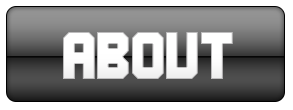
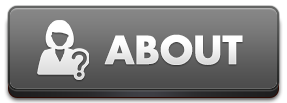
New buttons :b:

diff --git a/hackanix/index.html b/hackanix/index.html
@@ -53,10 +53,11 @@
 						
 						<nav>
 							<ul>
-                                <li><input type="image" src="images/1.png" id="icon1" style="width:90%; height:90%;"></li>
-                                <li><input type="image" src="images/2.png" id="icon2" style="width:90%; height:90%;"></li>
-                                <li><input type="image" src="images/3.png" id="icon3" style="width:90%; height:90%;"></li>
-                                <li><input type="image" src="images/4.png" id="icon4" style="width:90%; height:90%;"></li>
+                                <li><a href="#"><img src="images/1.png" id="icon1" style="width:90%; height:90%;"></a></li>
+                                <li><a href="#"><img src="images/2.png" id="icon2" style="width:90%; height:90%;"></a></li>
+                                <li><a href="#"><img src="images/3.png" id="icon3" style="width:90%; height:90%;"></a></li>
+                                <li><a href="#"><img src="images/4.png" id="icon4" style="width:90%; height:90%;"></a></li>
+                                
 							</ul> 
                             
 							<ul>
@@ -77,7 +78,7 @@
             
             <!--close button-->
             <div id="closebtn" class="closebutton">
-                <input type="image" src="images/close.png" id="btnclose" style="width:100%; height:100%;">
+                <a href="#"><img src="images/close.png" id="btnclose" style="width:100%; height:100%;"></a>
             </div>
             
             <!--Google form-->
@@ -101,8 +102,18 @@
             <!--------->
             
 		</div>
-      <script src="js/jquery.min.js"></script>
-      <script>
+        
+        
+        
+        <script src="js/jquery.min.js"></script>
+        <script src="js/skel.min.js"></script>
+		<script src="js/init.js"></script>
+        <script src="js/TweenMax.min.js"></script>
+        <script src="js/utils/Draggable.min.js"></script>
+        <script src="js/plugins/ThrowPropsPlugin.min.js"></script>
+        <script src="js/easing/EasePack.min.js"></script>
+        <script src="js/jquery.countdown.js"></script>
+        <script>
           $(window).load(function() {
             $(".loader").fadeOut("slow");
           })
@@ -168,53 +179,43 @@
           
           //button popup
          
-          $('#icon1').mouseover(function(){TweenMax.to($('#icon1'), 1 , {scaleX:1.35, scaleY:1.35, ease:Strong.easeOut});});
-          $('#icon2').mouseover(function(){TweenMax.to($('#icon2'), 1 , {scaleX:1.35, scaleY:1.35, ease:Strong.easeOut});});
-          $('#icon3').mouseover(function(){TweenMax.to($('#icon3'), 1 , {scaleX:1.35, scaleY:1.35, ease:Strong.easeOut});});
-          $('#icon4').mouseover(function(){TweenMax.to($('#icon4'), 1 , {scaleX:1.35, scaleY:1.35, ease:Strong.easeOut});});
+          $('#icon1').mouseover(function(){TweenMax.to($('#icon1'), 1 , {scaleX:1.15, scaleY:1.15, ease:Elastic.easeOut});});
+          $('#icon2').mouseover(function(){TweenMax.to($('#icon2'), 1 , {scaleX:1.15, scaleY:1.15, ease:Elastic.easeOut});});
+          $('#icon3').mouseover(function(){TweenMax.to($('#icon3'), 1 , {scaleX:1.15, scaleY:1.15, ease:Elastic.easeOut});});
+          $('#icon4').mouseover(function(){TweenMax.to($('#icon4'), 1 , {scaleX:1.1, scaleY:1.15, ease:Elastic.easeOut});});
           $('#btnclose').mouseover(function(){TweenMax.to($('#btnclose'), 1 , {scaleX:1.35, scaleY:1.35, ease:Strong.easeOut});});
           
-          $('#icon1').mouseout(function(){TweenMax.to($('#icon1'), 1 , {scaleX:1, scaleY:1, ease:Strong.easeOut});});
-          $('#icon2').mouseout(function(){TweenMax.to($('#icon2'), 1 , {scaleX:1, scaleY:1, ease:Strong.easeOut});});
-          $('#icon3').mouseout(function(){TweenMax.to($('#icon3'), 1 , {scaleX:1, scaleY:1, ease:Strong.easeOut});});
-          $('#icon4').mouseout(function(){TweenMax.to($('#icon4'), 1 , {scaleX:1, scaleY:1, ease:Strong.easeOut});});
+          $('#icon1').mouseout(function(){TweenMax.to($('#icon1'), 1 , {scaleX:1, scaleY:1, ease:Elastic.easeOut});});
+          $('#icon2').mouseout(function(){TweenMax.to($('#icon2'), 1 , {scaleX:1, scaleY:1, ease:Elastic.easeOut});});
+          $('#icon3').mouseout(function(){TweenMax.to($('#icon3'), 1 , {scaleX:1, scaleY:1, ease:Elastic.easeOut});});
+          $('#icon4').mouseout(function(){TweenMax.to($('#icon4'), 1 , {scaleX:1, scaleY:1, ease:Elastic.easeOut});});
           $('#btnclose').mouseout(function(){TweenMax.to($('#btnclose'), 1 , {scaleX:1, scaleY:1, ease:Strong.easeOut});});
          
+          
+            var r = document.getElementById("icon1");
+            var pop = document.getElementById("pops");
+            var lols = document.getElementById("icon2");
+            var lols2 = document.getElementById("icon3");
+            var lols3 = document.getElementById("icon4");
+            var logo = document.getElementById("mainLogo");
+            Draggable.create($('#pops'), {type: "x,y", edgeResistance:0.5, throwProps: true, bounds:window});
+            TweenMax.to(logo, 1 , {scaleY:0.9, scaleX:0.9, ease:Sine.easeInOut, yoyo:true, repeat:2, delay:4});
+
+
+                $(function(){
+                    $(".digits").countdown({
+                      image: "img/digits.png",
+                      format: "dd:hh:mm:ss",
+                      endTime: new Date(2015, 03, 27)
+                    });
+                  });
           
         </script>
         
         
    
         
-        <script src="js/skel.min.js"></script>
-		<script src="js/init.js"></script>
-        <script src="js/TweenMax.min.js"></script>
-        <script src="js/utils/Draggable.min.js"></script>
-        <script src="js/plugins/ThrowPropsPlugin.min.js"></script>
-        <script src="js/easing/EasePack.min.js"></script>
-        <script src="js/jquery.countdown.js"></script>
-        <script>
         
         
-        var r = document.getElementById("icon1");
-        var pop = document.getElementById("pops");
-        var lols = document.getElementById("icon2");
-        var lols2 = document.getElementById("icon3");
-        var lols3 = document.getElementById("icon4");
-        var logo = document.getElementById("mainLogo");
-        Draggable.create($('#pops'), {type: "x,y", edgeResistance:0.5, throwProps: true, bounds:window});
-        TweenMax.to(logo, 1 , {scaleY:0.9, scaleX:0.9, ease:Sine.easeInOut, yoyo:true, repeat:2, delay:4});
-
-            
-            $(function(){
-                $(".digits").countdown({
-                  image: "img/digits.png",
-                  format: "dd:hh:mm:ss",
-                  endTime: new Date(2015, 03, 27)
-                });
-              });
-            
-            
-        </script>
 	</body>
 </html>

diff --git a/hackanix/css/style.css b/hackanix/css/style.css
@@ -426,7 +426,7 @@
 
 /* popup */
    .popwindow {
-       
+        overflow-y:scroll;
         display:none;
         position: absolute;
         width: 760px;
@@ -441,6 +441,8 @@
         right:0;
         z-index: 999;
 }
+/*----------------------*/
+
 
    .overlaypageclass {
     display: none;
